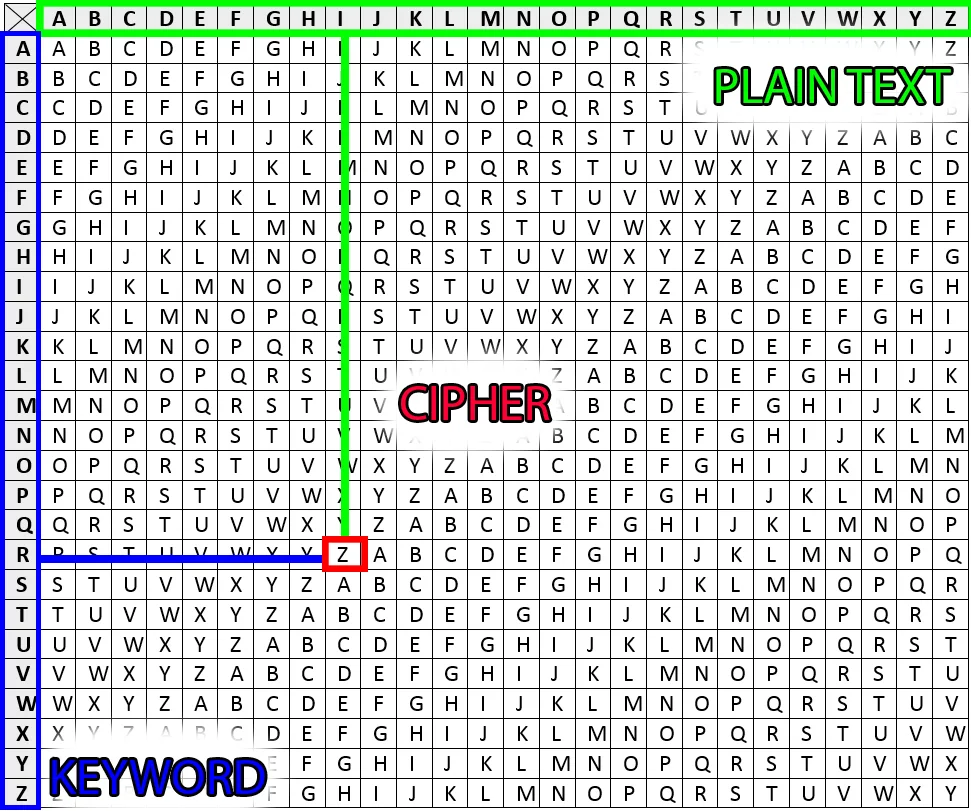
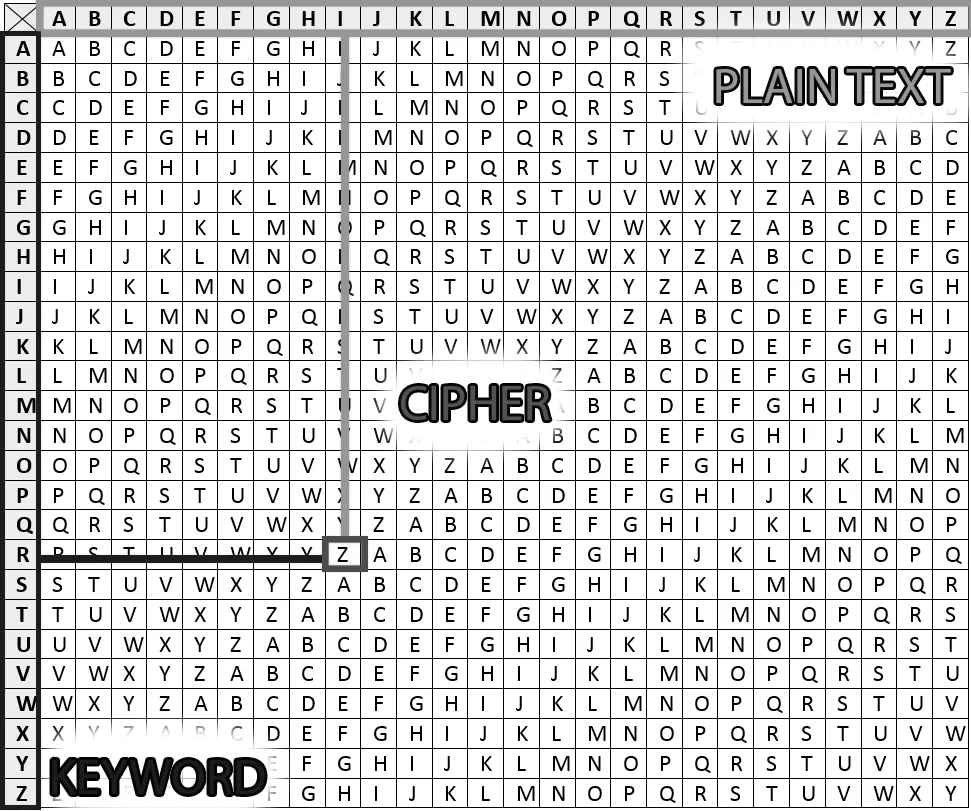
Added reflections for TwoLip

Changed region(s): [[0.0, 0.0, 1.0, 1.0], [0.4016, 0.4624, 0.587, 0.524]]

diff --git a/index.html b/index.html
@@ -98,6 +98,8 @@
                             <b>CompTIA A+</b>
                             <br>
                             <b>AWS Certified Cloud Practitioner</b>
+                            <br>
+                            <b>ACT WorkKeys NCRC Platinum</b>
                         </p>
                     </div>
                 </div>
@@ -114,11 +116,11 @@
             <div class="container px-4 px-lg-5">
                 <!-- Featured Project Row-->
                 <div class="row gx-0 mb-4 mb-lg-5 align-items-center" data-bs-toggle="modal" data-bs-target="#portfolioModal1">
-                    <div class="col-xl-8 col-lg-7"><img class="img-fluid mb-3 mb-lg-0" src="https://placehold.co/800x600"/></div>
+                    <div class="col-xl-8 col-lg-7"><img class="img-fluid mb-3 mb-lg-0" src="assets\img\tulip_logo.png"/></div>
                     <div class="col-xl-4 col-lg-5">
                         <div class="featured-text text-center text-lg-left">
-                            <h4>Tulip</h4>
-                            <p class="text-black-50 mb-0">A simple messaging service utilizing AWS backend and an Electron API frontend</p>
+                            <h4>TwoLip</h4>
+                            <p class="text-black-50 mb-0">A simple messaging service utilizing an AWS backend and an Electron API frontend</p>
                         </div>
                     </div>
                 </div>
@@ -175,7 +177,7 @@
                 </div>
                 <div class="social d-flex justify-content-center">
                     <!--Update with your GitHub-->
-                    <a class="mx-2" href="https://github.com/"><i class="fab fa-github"></i></a>
+                    <a class="mx-2" href="https://github.com/wrbunzey"><i class="fab fa-github"></i></a>
                 </div>
             </div>
         </section>
@@ -193,9 +195,9 @@
                                     <!-- Portfolio Modal - Title-->
                                     <h2 class="portfolio-modal-title text-secondary text-uppercase mb-0">Tulip</h2>
                                     <!-- Portfolio Modal - Image-->
-                                    <img src="https://placehold.co/600x400" class="figure-img img-fluid rounded" alt="HACTC logo in grayscale">
+                                    <img src="assets\img\twolip-frontend.png" class="figure-img img-fluid rounded" alt="HACTC logo in grayscale">
                                     <!-- Portfolio Modal - Text-->
-                                    <p class="mb-4">Longer description of featured item</p>
+                                    <p class="mb-4">For my Software Engineering capstone project, I worked with a classmate to create a simple messaging application named TwoLip. This application used Amazon Web Services for the backend to handle data storage and networking capabilities. We used services such as Amazon SQS for message queuing, MongoDB for message storage, SNS for notifications, and S3 for image/file storage. TwoLip supports messaging one or more people, profile customization, and file/image embedding in messages. The frontend for Twolip utilizes the Electron API to create a desktop application using HTML, CSS, and JavaScript, allowing for the creation of a customizable GUI using webdev tools and supporting both desktop and web browser apps. For the branding of this application, we decided on naming it TwoLip, referring to tulips and mouths, representing both growth and communication. Our logo reflects this naming convention.</p>
                                     <button class="btn btn-primary" data-bs-dismiss="modal">
                                         <i class="fas fa-xmark fa-fw"></i>
                                         Close Window
